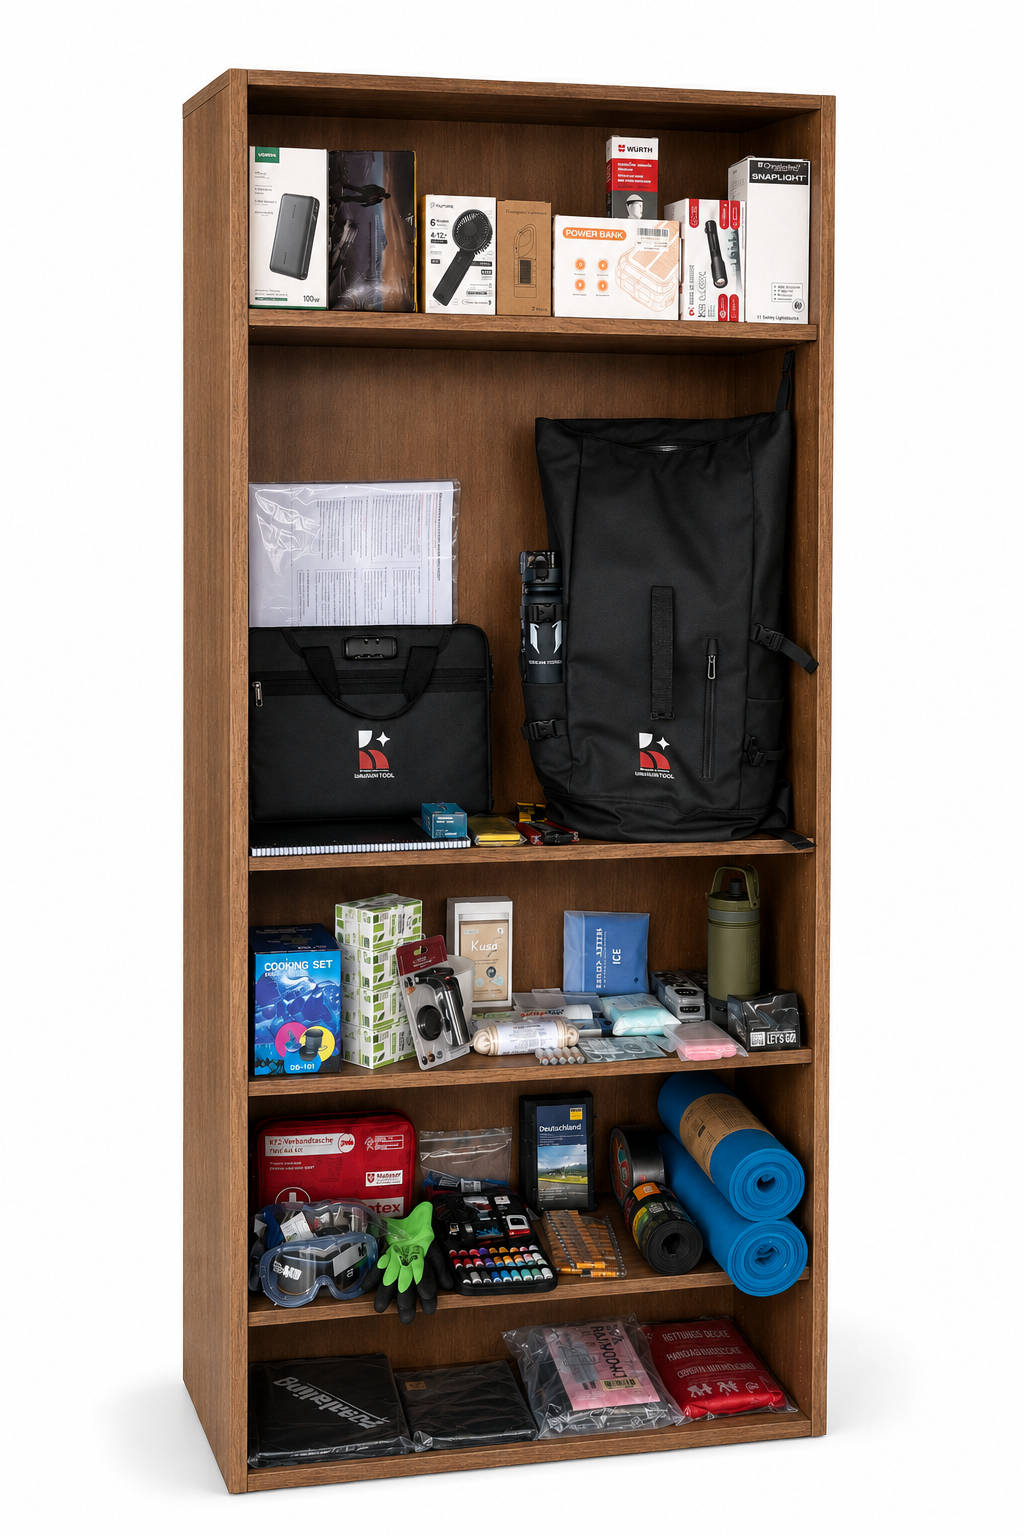
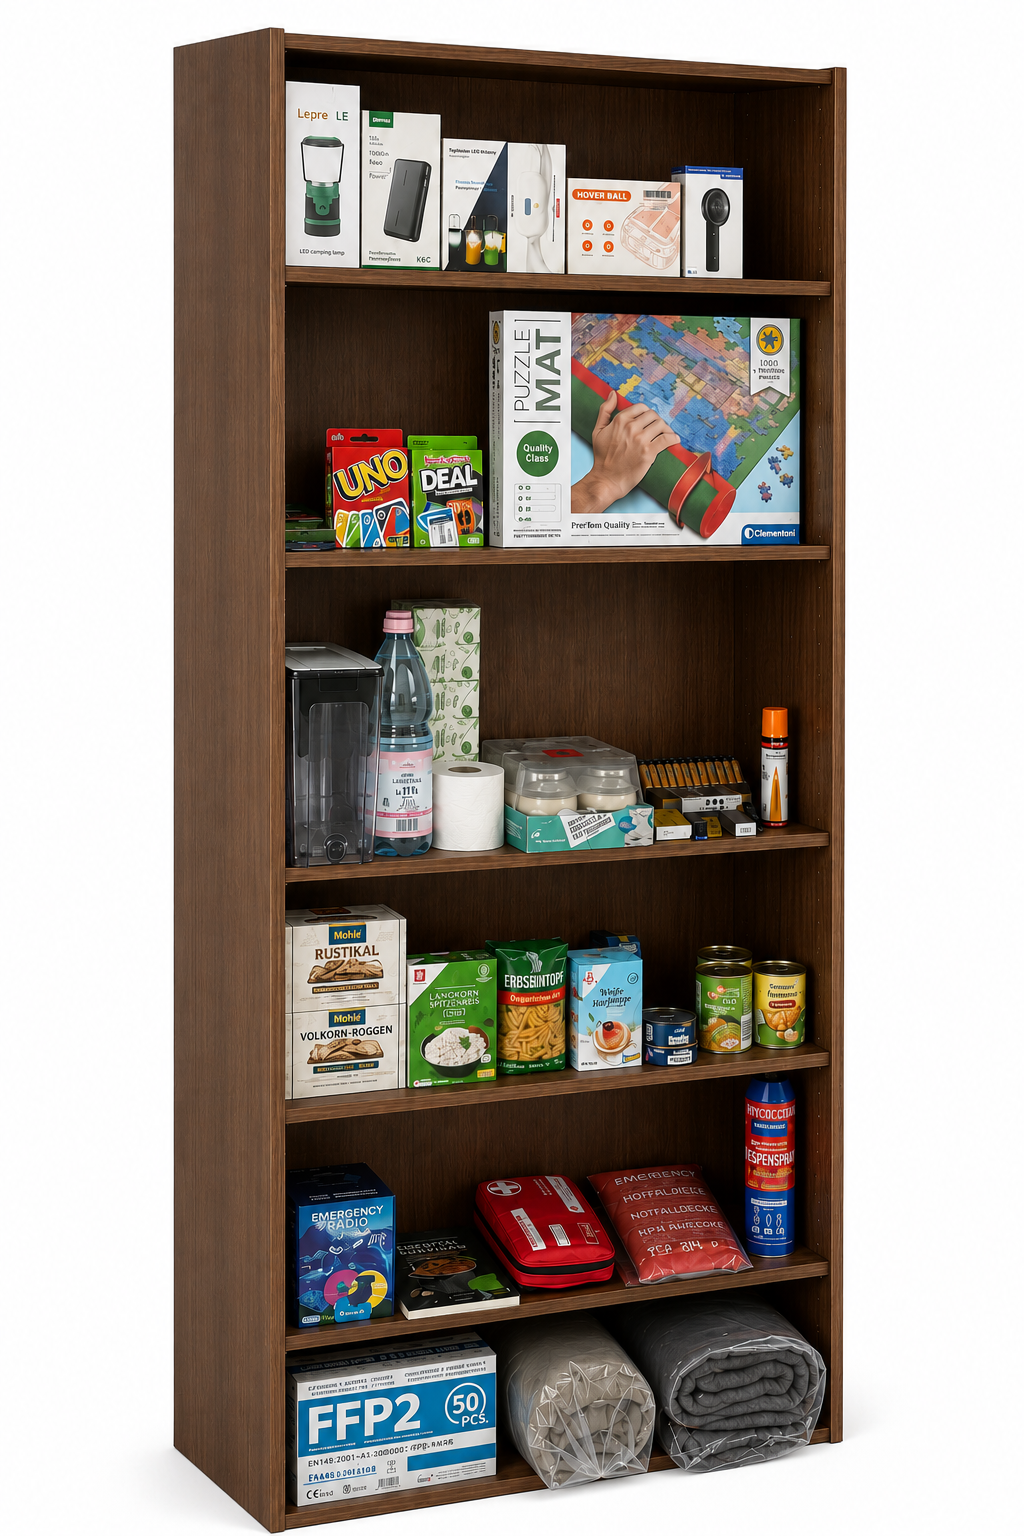
bugs fixed

diff --git a/public/assets/js/i18n/home.js b/public/assets/js/i18n/home.js
@@ -7,7 +7,7 @@
 
 export const dictionary = {
     de: {
-        nav_home: "Startseite", nav_shop: "Shop", nav_team: "Team", nav_contact: "Kontakt", nav_account: "Mein Konto", btn_organizations: "Für Organisationen",
+        nav_home: "Resilienz", nav_shop: "Shop", nav_team: "Team", nav_contact: "Kontakt", nav_account: "Mein Konto", btn_organizations: "Für Organisationen",
         hp_hero_title: "Wäre Ihre Familie—oder Ihr Unternehmen—morgen <span>bereit</span>?", hp_hero_sub: "Entdecken Sie Ihre Bereitschaft. Bauen Sie Resilienz auf. Schützen Sie, was zählt.", hp_hero_desc: "takeKONTROL hilft Einzelpersonen, Familien, Unternehmen und Gemeinden, sich durch Risikobewertung, angeleitetes Lernen und praktische Vorsorge auf Notfälle vorzubereiten.", hp_btn_journey: "Readiness Journey starten",
         hl_title: "Der Fahrplan zur <span>Resilienz</span>", hl_sub: "Ein systematisches Framework, das Sie Schritt für Schritt durch Risikoanalyse, Funktionstraining und langfristige Schutzstrategien führt.",
         hl_c1_title: "Risiken Verstehen", hl_c1_desc: "Wissen, welche Bedrohungen existieren.",
@@ -45,7 +45,7 @@ export const dictionary = {
         footer_title: "Werden Sie Teil der takeKONTROL Community", footer_desc: "Abonnieren Sie unseren Newsletter für praktische Tipps zur Notfallvorsorge.", btn_subscribe: "Abonnieren", footer_contact: "Kontakt", footer_stamp: "Stand: Mai 2026"
     },
     en: {
-        nav_home: "Home", nav_shop: "Shop", nav_team: "Team", nav_contact: "Contact", nav_account: "My Account", btn_organizations: "For Organizations",
+        nav_home: "Resilience", nav_shop: "Shop", nav_team: "Team", nav_contact: "Contact", nav_account: "My Account", btn_organizations: "For Organizations",
         hp_hero_title: "Would your family—or your business—be <span>ready</span> tomorrow?", hp_hero_sub: "Discover your readiness. Build resilience. Protect what matters.", hp_hero_desc: "TakeKONTROL helps individuals, families, businesses and communities prepare for emergencies through risk assessment, guided learning and practical preparedness.", hp_btn_journey: "Start Your Readiness Journey",
         hl_title: "The Roadmap to <span>Resilience</span>", hl_sub: "A systematic framework engineered to guide you step-by-step through risk assessment, functional training, and long-term protective strategies.",
         hl_c1_title: "Understand the Risks", hl_c1_desc: "Know what threats exist.",

diff --git a/public/index.html b/public/index.html
@@ -36,7 +36,7 @@
             </a>
         </div>
         <nav class="center-nav">
-            <a href="index.html" style="color: var(--primary-red);" data-localize="nav_home">Startseite</a>
+            <a href="index.html" style="color: var(--primary-red);" data-localize="nav_home">Resilienz</a>
             <a href="takekontrol-revamp.html" data-localize="nav_shop">Shop</a>
             <a href="#team" data-localize="nav_team">Team</a>
             <a href="enquiry.html" data-localize="nav_contact">Kontakt</a>
@@ -70,7 +70,7 @@
             </button>
         </div>
         <nav class="drawer-nav">
-            <a href="index.html" class="drawer-link" data-localize="nav_home">Startseite</a>
+            <a href="index.html" class="drawer-link" data-localize="nav_home">Resilienz</a>
             <a href="takekontrol-revamp.html" class="drawer-link" data-localize="nav_shop">Shop</a>
             <a href="index.html#team" class="drawer-link" data-localize="nav_team">Team</a>
             <a href="enquiry.html" class="drawer-link" data-localize="nav_contact">Kontakt</a>
@@ -367,11 +367,11 @@
                 <div class="product-card">
                     <div class="image-placeholder"><img src="assets/img/minimum-bag-2.png" alt="Essential Backpack"></div>
                     <h4 data-localize="p_2_title">Essential Backpack</h4>
-                    <div class="price">€89.99</div>
+                    <div class="price">€49.99</div>
                     <a href="takekontrol-revamp.html#backpacks" class="btn btn-secondary">Shop Now</a>
                 </div>
                 <div class="product-card">
-                    <div class="image-placeholder"><img src="assets/img/document-bag.png" alt="Standard Backpack"></div>
+                    <div class="image-placeholder"><img src="assets/img/standard-2.png" alt="Standard Backpack"></div>
                     <h4 data-localize="p_3_title">Standard Backpack</h4>
                     <div class="price">€199.99</div>
                     <a href="takekontrol-revamp.html#backpacks" class="btn btn-secondary">Shop Now</a>

diff --git a/public/takekontrol-revamp.html b/public/takekontrol-revamp.html
@@ -140,7 +140,7 @@
                 <div class="shelf-card">
                     <div class="product-image-container">
                         <div class="carousel-track" id="carouselHomeKit">
-                            <img src="assets/img/shelf-front.png" alt="7-Day Home Preparedness Kit - view 1" class="carousel-slide" onerror="tkImgFallback(this)">
+                            <img src="assets/img/shelf-center.png" alt="7-Day Home Preparedness Kit - view 1" class="carousel-slide" onerror="tkImgFallback(this)">
                             <img src="assets/img/shelf-right.png" alt="7-Day Home Preparedness Kit - view 2" class="carousel-slide" onerror="tkImgFallback(this)">
                             <img src="assets/img/shelf-left.png" alt="7-Day Home Preparedness Kit - view 3" class="carousel-slide" onerror="tkImgFallback(this)">
                         </div>
@@ -415,7 +415,7 @@
                 <div class="product-card">
                     <div class="product-image-container">
                         <div class="carousel-track" id="carouselPremium">
-                            <img src="assets/img/04_ready_to_leave.png" alt="Premium Backpack - view 1" class="carousel-slide" onerror="tkImgFallback(this)">
+                            <img src="assets/img/shelf-front.png" alt="Premium Backpack - view 1" class="carousel-slide" onerror="tkImgFallback(this)">
                             <img src="assets/img/premium-bag-3.png" alt="Premium Backpack - view 2" class="carousel-slide" onerror="tkImgFallback(this)">
                             <img src="assets/img/premium-bag.png" alt="Premium Backpack - view 3" class="carousel-slide" onerror="tkImgFallback(this)">
                         </div>

diff --git a/public/assets/css/pages/home.css b/public/assets/css/pages/home.css
@@ -11,21 +11,21 @@
 [data-theme="light"] {
   --radius-corp: 10px;
 }
-
 [data-theme="dark"] {
-  --border-color: #2d3a52;
-  --card-bg: #1e293b;
-  --card-shadow-hover: 0 15px 40px rgba(220, 38, 38, 0.15);
-  --footer-bg: #0f172a;
-  --header-bg-scrolled: rgba(10, 15, 29, 0.95);
-  --nav-text-scrolled: #f8fafc;
-  --primary-bg: #0a0f1d;
-  --primary-red: #dc2626;
-  --primary-red-hover: #b91c1c;
-  --secondary-bg: #1e293b;
-  --text-heading: #f8fafc;
-  --text-main: #e2e8f0;
-  --text-muted: #94a3b8;
+  --primary-bg: #080808;
+  --secondary-bg: #121212;
+  --card-bg: #1a1a1a;
+  --primary-red: #d32f2f;
+  --primary-red-hover: #b71c1c;
+  --text-main: #f5f5f7;
+  --text-muted: #a0a0a0;
+  --text-heading: #ffffff;
+  --border-color: #2a2a2a;
+  --header-bg-scrolled: rgba(10, 10, 10, 0.95);
+  --nav-text-scrolled: #ffffff;
+  --footer-bg: #050505;
+  --card-shadow: 0 10px 30px rgba(0, 0, 0, 0.5);
+  --card-shadow-hover: 0 15px 40px rgba(211, 47, 47, 0.15);
 }
 
 /* Strict Structural Resets */
@@ -427,3 +427,14 @@ footer { background-color: var(--footer-bg); border-top: 1px solid var(--border-
             .modal-content { padding: 25px 20px; }
             .modal-header h2 { font-size: 1.5rem; }
         }
+
+
+
+        [data-theme="dark"] .product-card .image-placeholder {
+  background: #ffffff;
+  border-color: #333333;
+}
+
+[data-theme="dark"] .product-card .image-placeholder img {
+  filter: brightness(1.1);
+}

diff --git a/server/app.js b/server/app.js
@@ -47,8 +47,8 @@ export function createApp({ rateLimit = true } = {}) {
   app.use('/api', ordersRouter);
 
   app.use('/api', apiNotFound);
-
-  app.use(express.static(STATIC_DIR));
+app.get('/', (req, res) => res.redirect('/takekontrol-revamp.html'));
+app.use(express.static(STATIC_DIR));
 
   app.use(errorHandler);
 
